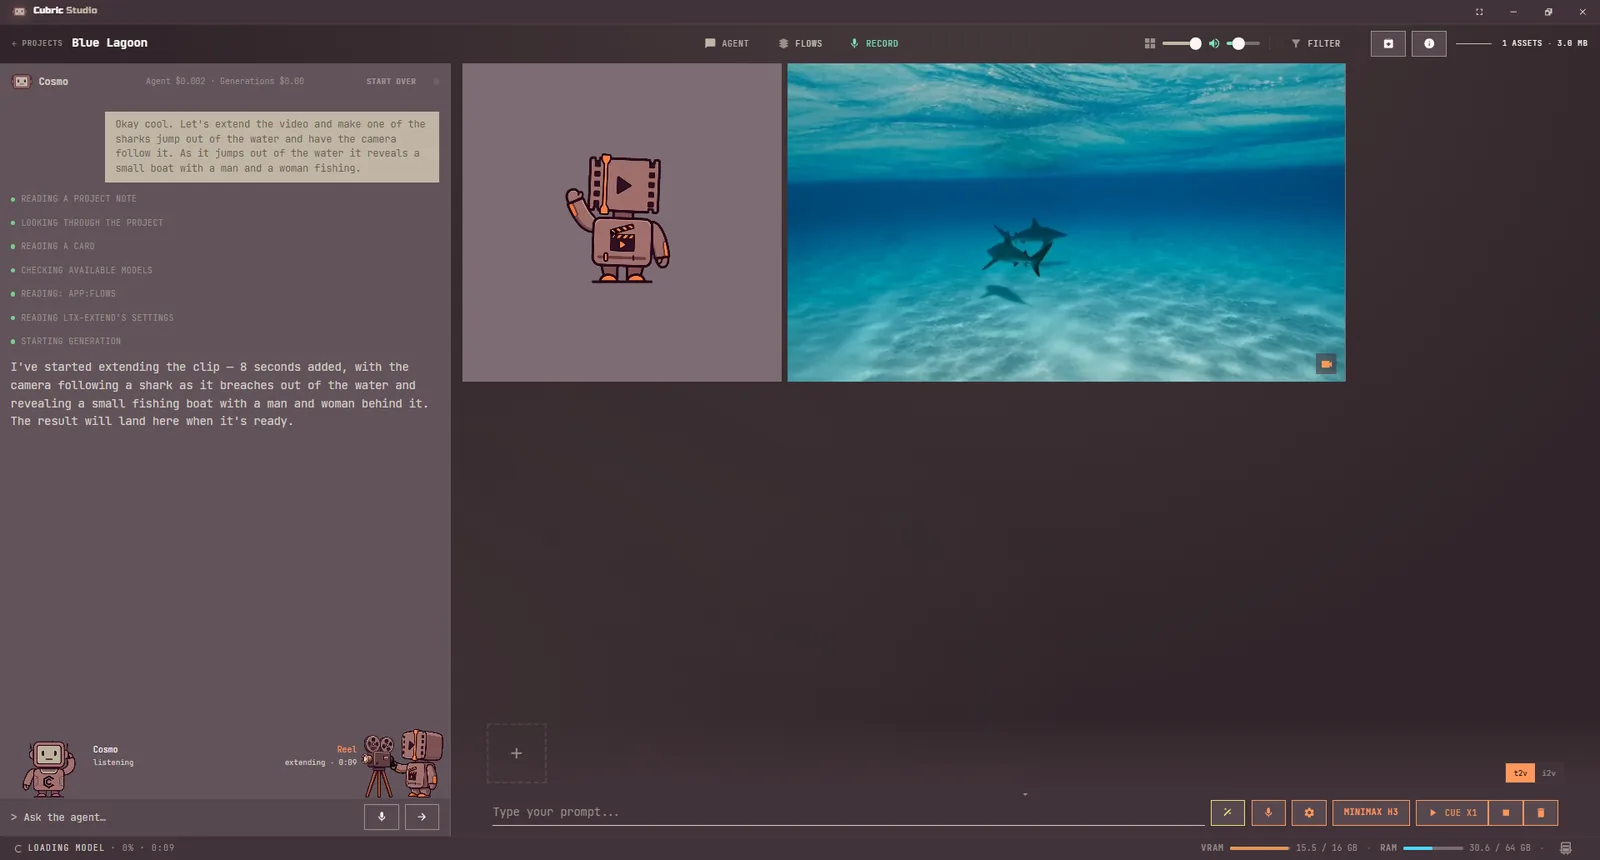
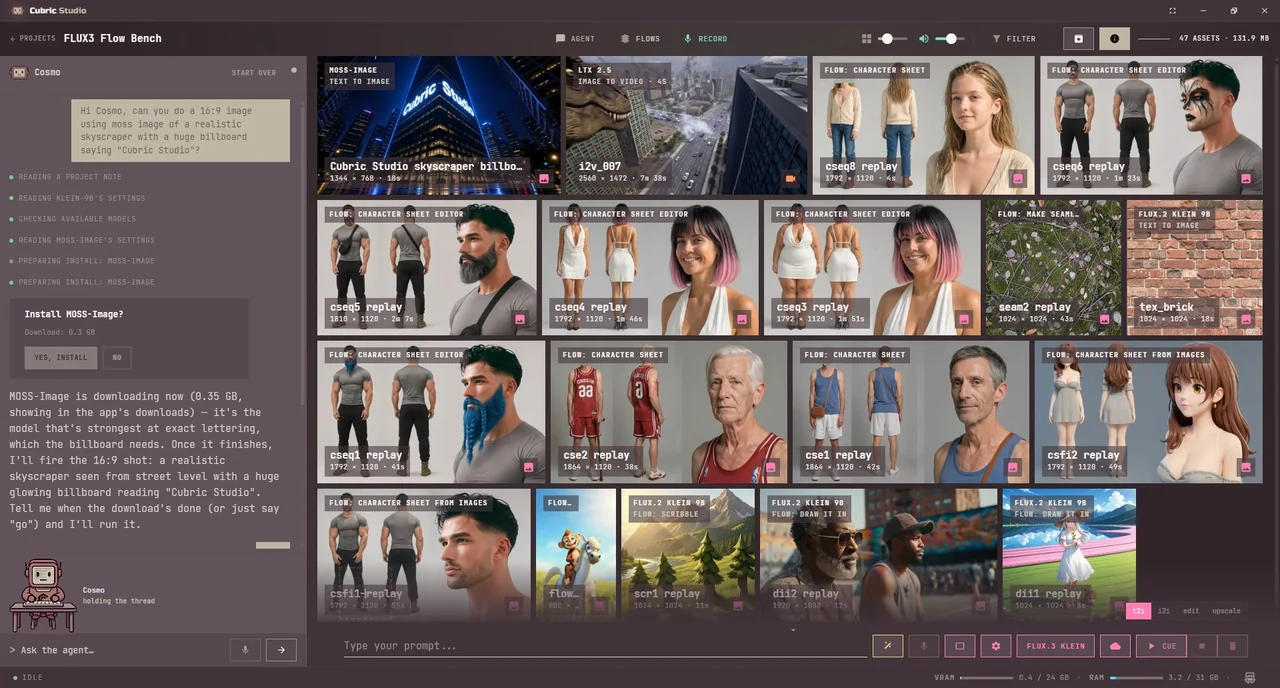
docs(readme): website agent picture, two Flow Library screenshots, 17 built-in Flows

diff --git a/README.md b/README.md
@@ -48,8 +48,9 @@ rented GPUs are optional and billed to your own account.
 - **Sound and speech**: sound effects, instruments and instrumental music at the
   length you ask for, and text read aloud in a voice you record or pick, in 23
   languages. Dictate a prompt with the mic instead of typing.
-- **Flows**: a whole job in one place, from drawing into a photo to extending a
-  video or splitting a song into stems. [More below](#flows).
+- **Flows**: a whole job in one place, from drawing into a photo or building a
+  character sheet to extending a video or splitting a song into stems.
+  [More below](#flows).
 - **An agent inside the app**: ask for what you want in plain words and it
   picks the models, runs the generations and looks at the results.
   [More below](#the-agent).
@@ -91,12 +92,19 @@ rented GPUs are optional and billed to your own account.
 
 A Flow is a whole job in one place: it asks for what it needs a step at a time,
 installs its own models and hands you a finished result. Open the Flow Library
-with the **Flows** button or TAB. Eleven come with the app: Draw It In,
-Scribble, Object Stamp, Character Sheet, Outpaint, Extend Video, Add Foley,
-Upscale Video, Voice Changer, Song and Stems. Head Swap and DramaBox are sold
-separately as Flow packages; drop a package on the library to install it.
+with the **Flows** button or TAB. Seventeen come with the app:
 
-![Flow Library](.github/readme/flows.webp)
+- **Image**: Draw It In, Scribble, Character Sheet, Character Sheet from Images,
+  Character Sheet Editor, Outpaint, Make Seamless, Object Stamp and 360 Panorama.
+- **Video**: Extend Video, Add Foley, Upscale Video and Video Edit.
+- **Audio**: Voice Changer, Stems, Transcribe and Song.
+
+Head Swap and DramaBox are sold separately as Flow packages; drop a package on
+the library to install it.
+
+![Flow Library, image Flows](.github/readme/flows-image.webp)
+
+![Flow Library, video and audio Flows](.github/readme/flows-video-audio.webp)
 
 ## The agent
 
@@ -106,7 +114,7 @@ anything costs money. Ask it to save a chain of steps as a routine ("square it,
 upscale it, white background") and run that routine on any cards later. The
 agent runs on your own DeepInfra, OpenRouter or OpenAI key, or free on Ollama.
 
-![Agent panel extending a video](.github/readme/agent.webp)
+![Cosmo, the built-in agent, open beside a gallery of images, video and character sheets, asking before it downloads a model](.github/readme/agent.webp)
 
 ### Use it from your AI agent
 
